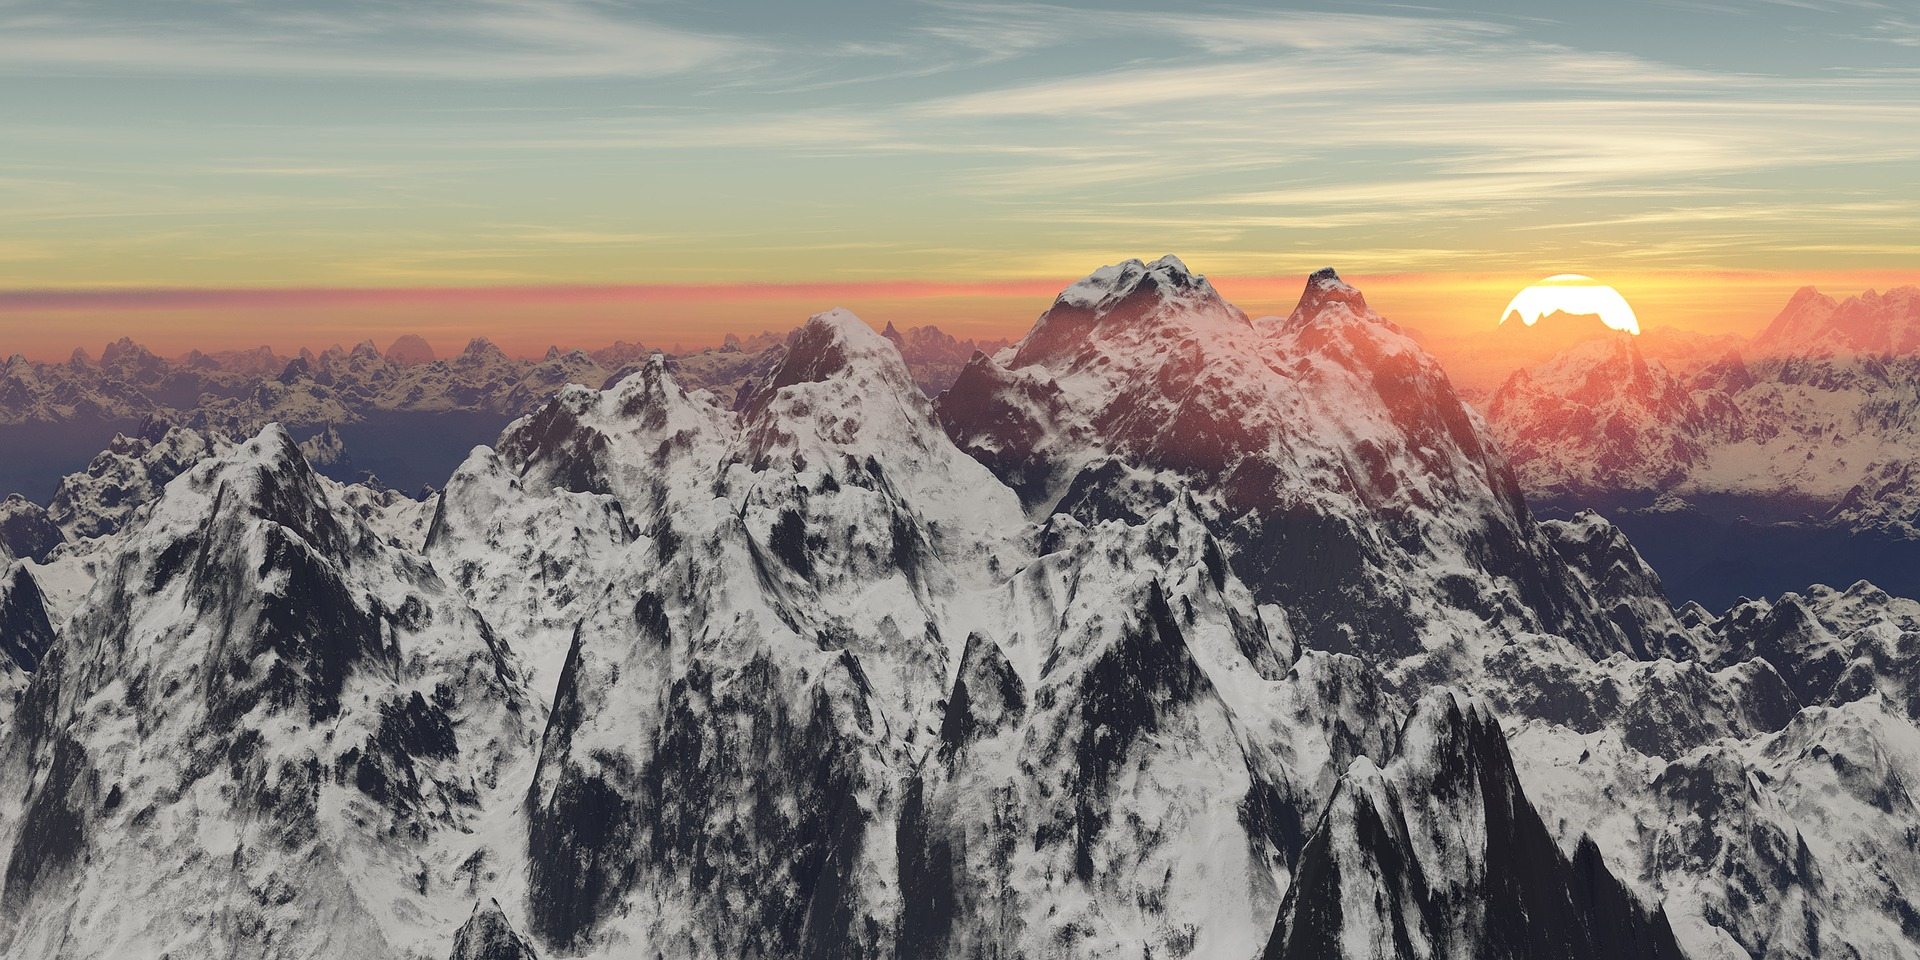
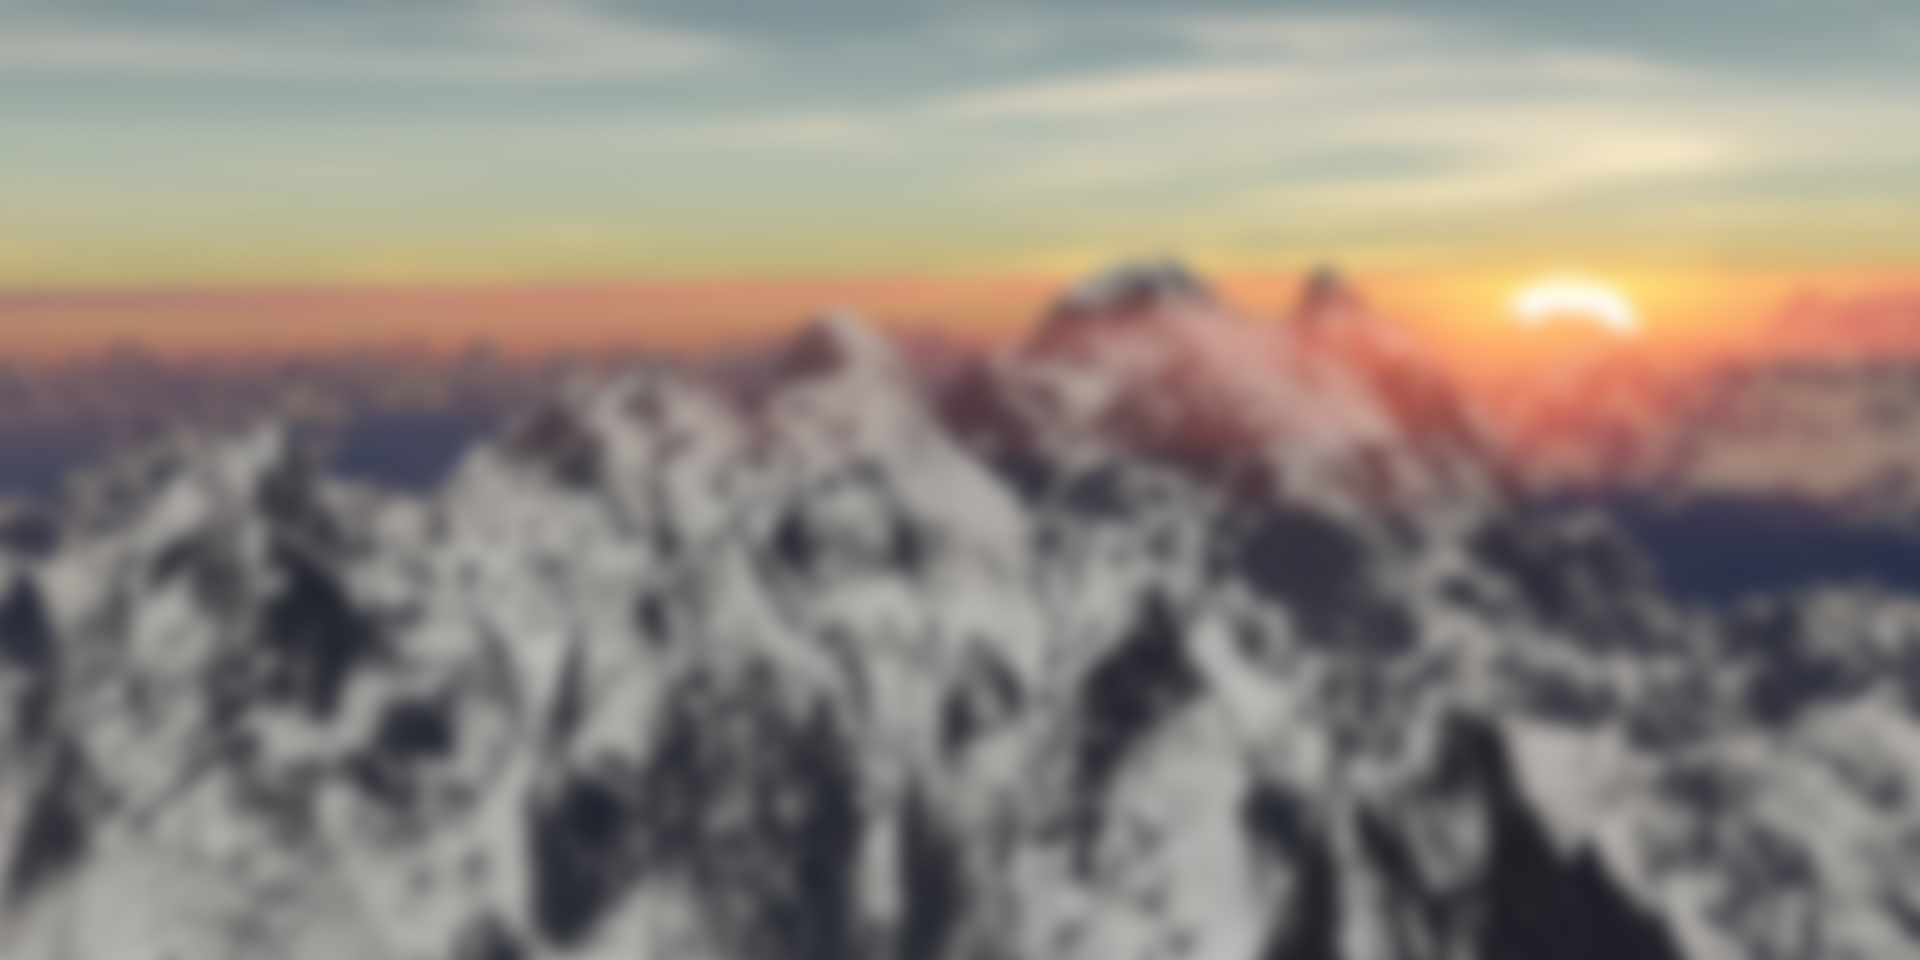
Изменил бг, сместил ссылки на профили, ник и аватар влево, добавил раздел с RTR2.

diff --git a/images/style.css b/images/style.css
@@ -32,39 +32,24 @@
     from { opacity: 0; }
     to   { opacity: 1; }
 }
-body {
-  background-color: #000;
-}
-.bg{position: absolute; left: 0; top: 0; width: 100%; height: 100%; background-size: cover;}
-/*.bg2{position: absolute; left: 0; top: 150%;  width: 100%; height: 100%; background-size: cover;}*/
+
+.bg{background: url(images/bg.jpg) no-repeat center center fixed; color: #000; background-size: cover;}
+.bg2{background: url(images/bg2.jpg) no-repeat top center fixed; color: #000; background-size: cover;}
 .container{background-color:rgba(0,0,0,.3); height:100%; position:absolute; width:100%; top:0; left:0;}
-/*.container2{background-color:rgb(255,255,255); height:222px; position:absolute; width:360px; top:45%; left:50%;}*/
+.container2{background-color:rgb(255,255,255); height:50%; position:absolute; width:100%; top:100%; left:0;}
+.container3{background-color:rgb(255,255,255); height:50%; position:absolute; width:100%; top:200%; left:0;}
 .name{font-size: 700%; color: white; font-family: Segoe UI; font-weight: lighter; text-align: center;}
-.center{width: 340px; top: 50%; left: 50%; position: absolute; margin-top: -100px; margin-left: -670px;}
+.center{width: 340px; top: 50%; left: 50%; position: absolute; margin-top: -100px; margin-left: -170px;}
 .icons{display: inline-block; position: relative; width: 90px; height: 90px; margin: 7px; cursor: pointer; border-radius: 7px 7px 7px 7px; border: 3px solid #fff;}
 .me-container {position: absolute; margin: -300px 25px;}
 .me{display: inline-block; position: relative; width: 270px; height: 270px; border: 5px solid #fff; border-radius: 150px;}
 .button{display: inline-block; position: relative; width: 94%; height: 95%; margin: 7px; cursor: pointer; border-radius: 7px 7px 7px 7px; border: 3px;}
-/*.divider {height: 50px;}*/
-.text-center{text-align: center;}
-.panel{margin-bottom: 10px; background-color: #fff; border-radius: 4px; box-shadow: 1px 1px rgba(0,0,0,.05); border: 1px solid transparent; background-color:rgb(255,255,255); height:247px; position:absolute; width:400px; top:45%; left:50%;}
-.panel-default{border-color: #ddd;}
-.panel-heading{padding: 30px 15px; background-color: #f5f5f5; color: #333; border-color: #ddd; background-image: linear-gradient(to bottom, #f5f5f5 0, #e8e8e8 100%); font-family: Segoe UI; font-size: 24px;}
-.panel-body{padding: 15px; border-top: 1px solid #ddd; font-family: Segoe UI;}
-.panel-footer{padding: 10px 15px; background-color: #f5f5f5; border-top: 1px solid #ddd; border-bottom-right-radius: 3px; border-bottom-left-radius: 3px; font-family: Segoe UI;}
-.text-right{text-align: right;}
-.btn-default{color: #333; background-color: #fff; border-color: #ccc;}
-.btn{display: inline-block; padding: 6px 12px; font-size: 14px; text-align: center; cursor: pointer; border: 1px solid #ddd; border-radius: 4px; text-decoration: none;}
-/*.col-md-4.don{position: relative; min-height: 1px; padding-right: 15px; padding-left: 15px; float: left; width: 33.333333333%; float: left;}
-.col-xs-12.don {
-    padding-top: 50%;
-    margin-top: -50%;
-}*/
-
+.divider {height: 50px;}
+/*.text-center{text-align: center;}*/
 section {
-    height:500px;
-    padding-top:50px;
-    padding-bottom:50px;
+    height:900px;
+    padding-top:90px;
+    padding-bottom:90px;
     overflow:auto;
 }
 hr {

diff --git a/images/index.html b/images/index.html
@@ -7,8 +7,8 @@
 	<link rel="stylesheet" type="text/css" href="style.css" media="all">
 </head>
 <body>
-	<div class="bg" style="background-image: url(images/bg.jpg);">
-</div>
+	<section class="bg">
+</section>
 <div class="container">
 		<div class="center">
 			<div class="me-container">
@@ -21,25 +21,18 @@
 			<img src="images/steam.png" class="icons hover-effect5 hover-effect1" style="display: inline-block" onclick="window.open('http://steamcommunity.com/id/mr_creezon/')">
 			<img src="images/donate.png" class="button hover-effect5 hover-effect1 hover-effect2" style="display: inline-block" onclick="window.open('http://rostya.me/donate/')">
 	</div>
-	
-<div class="panel panel-default">
-	<div class="panel-heading text-center">
-		<h3>Running Through Russia 2</h3>
-	</div>
-	<div class="panel-body">Second part of legendary Running Through Russia! New locations, characters, bonuses, etc. Let your running continue.</div>
-	<div class="panel-footer text-right">
-		<a href="https://store.steampowered.com/app/870080/Running_Through_Russia_2/" class="btn btn-default">Coming Soon</a>
-	</div>
 </div>
-</div>
-
-<!--<div class="container2">
+<div class="container2">
 	<h1 color="white" class="text-center">Running Through Russia</h1>
 	<p class="text-center">Running Through Russia</p>
 </div>
 <div class="divider"></div>
-<section class="bg2" style=" background-image: url(images/bg2.jpg);">
-</section>-->
+<section class="bg2">
+</section>
+<div class="container3">
+	<h1 color="white" class="text-center">Running Through Russia</h1>
+	<p class="text-center">Running Through Russia</p>
+</div>
 <div class="creator">
 	<p class="text-center apts">Created by Rostya himself</p>
 </div>
